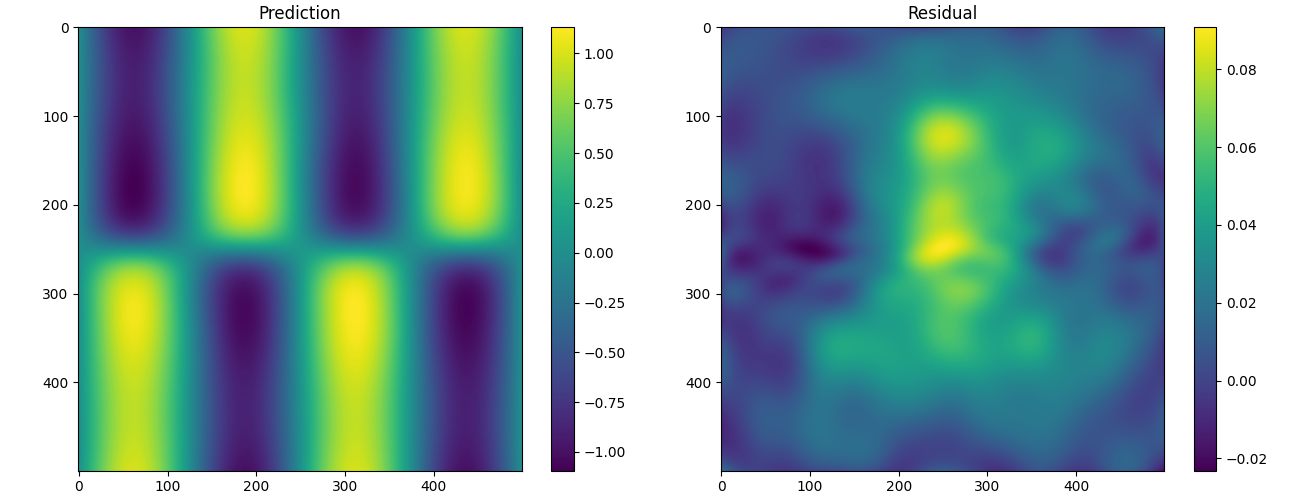
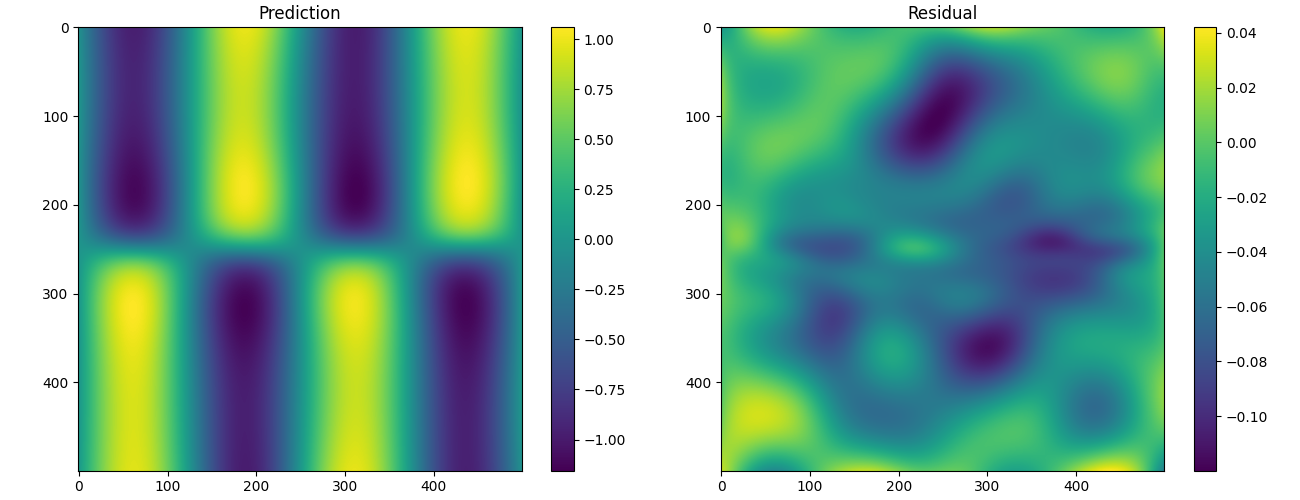
加入了对新VPINN的尝试

diff --git a/Poisson_1/test.py b/Poisson_1/test.py
@@ -11,8 +11,8 @@ os.chdir(sys.path[0])
 # train the model
 # vpinn = VPINN([2, 10, 10, 10, 1], f, u, type=1, Q=100, grid_num=4, boundary_num=80, test_fcn_num=5, 
 #             device='cpu', load='Sine[2, 10, 10, 10, 1](type=0,Q=10,grid_num=8,boundary_num=80,test_fcn=5).pth')
-vpinn = VPINN([2, 20, 20, 20, 1], f, u, type=0, Q=50, grid_num=4, boundary_num=80, test_fcn_num=5, 
-            device='cpu', load='Poisson[2, 20, 20, 20, 1](type=1,Q=50,grid_num=4,boundary_num=80,test_fcn=5,load=None,epoch=20000).pth')
+vpinn = VPINN([2, 10, 10, 10, 1], f, u, type=1, Q=50, grid_num=4, boundary_num=80, test_fcn_num=5, 
+            device='cpu', load=None)
 net = vpinn.train("Poisson", epoch_num=10000)
 
 

diff --git a/Poisson_1/VPINN2d.py b/Poisson_1/VPINN2d.py
@@ -143,7 +143,7 @@ class VPINN:
         return self.loss(int1, int2)
     
     def loss_interior_2(self):
-        int1 = quad_integral.integral(self.DeltaWrapper) * ((1 / self.grid_num) ** 2)
+        int1 = -quad_integral.integral(self.DeltaWrapper) * ((1 / self.grid_num) ** 2)
         int2 = quad_integral.integral(self.fWrapper) * ((1 / self.grid_num) ** 2)
         # int3 = quad_integral.integral(self.LaplaceWrapper) * ((1 / self.grid_num) ** 2)
         return self.loss(int1, int2)

diff --git a/Poisson_1/plot.py b/Poisson_1/plot.py
@@ -10,7 +10,7 @@ sin = torch.sin
 def u(x, y):
     return (0.1 * torch.sin(2 * torch.pi * x) + torch.tanh(10 * x)) * torch.sin(2 * torch.pi * y)
 
-net = torch.load('./model/Poisson[2, 20, 20, 20, 1](type=0,Q=10,grid_num=8,boundary_num=80,test_fcn=5).pth')
+net = torch.load('./model/Poisson[2, 20, 20, 20, 1](type=1,Q=50,grid_num=4,boundary_num=80,test_fcn=5,load=None,epoch=20000).pth')
 xc = torch.linspace(-1, 1, 500)
 xx, yy = torch.meshgrid(xc, xc, indexing='ij')
 xx = xx.reshape(-1, 1)
